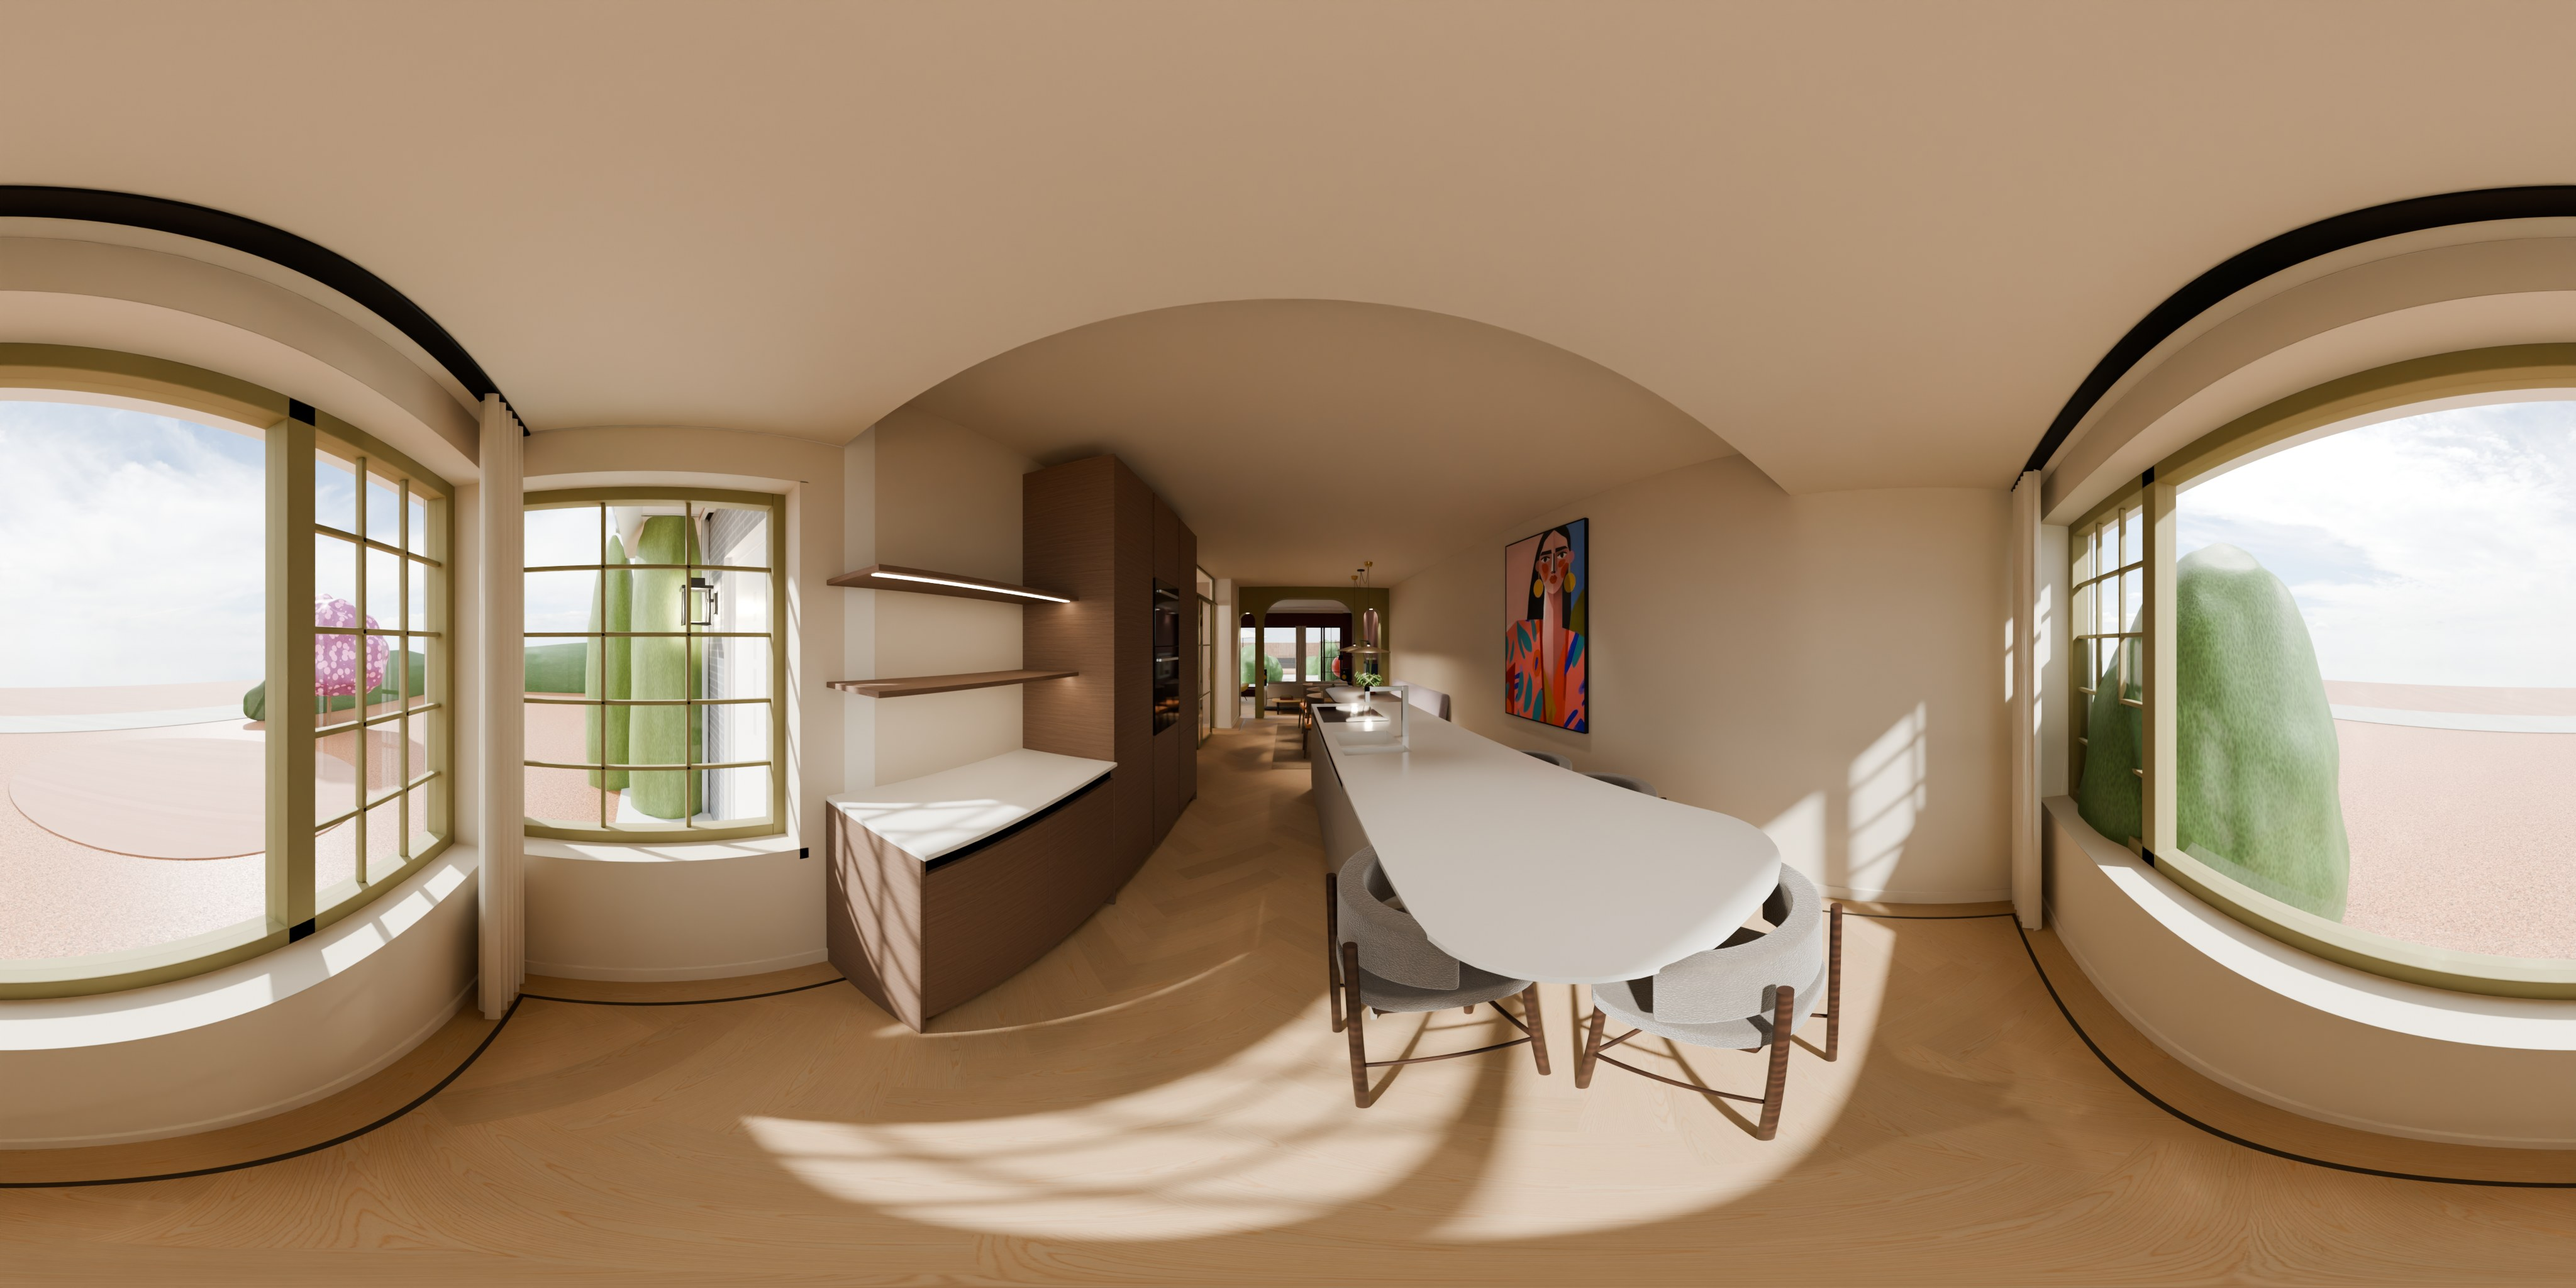
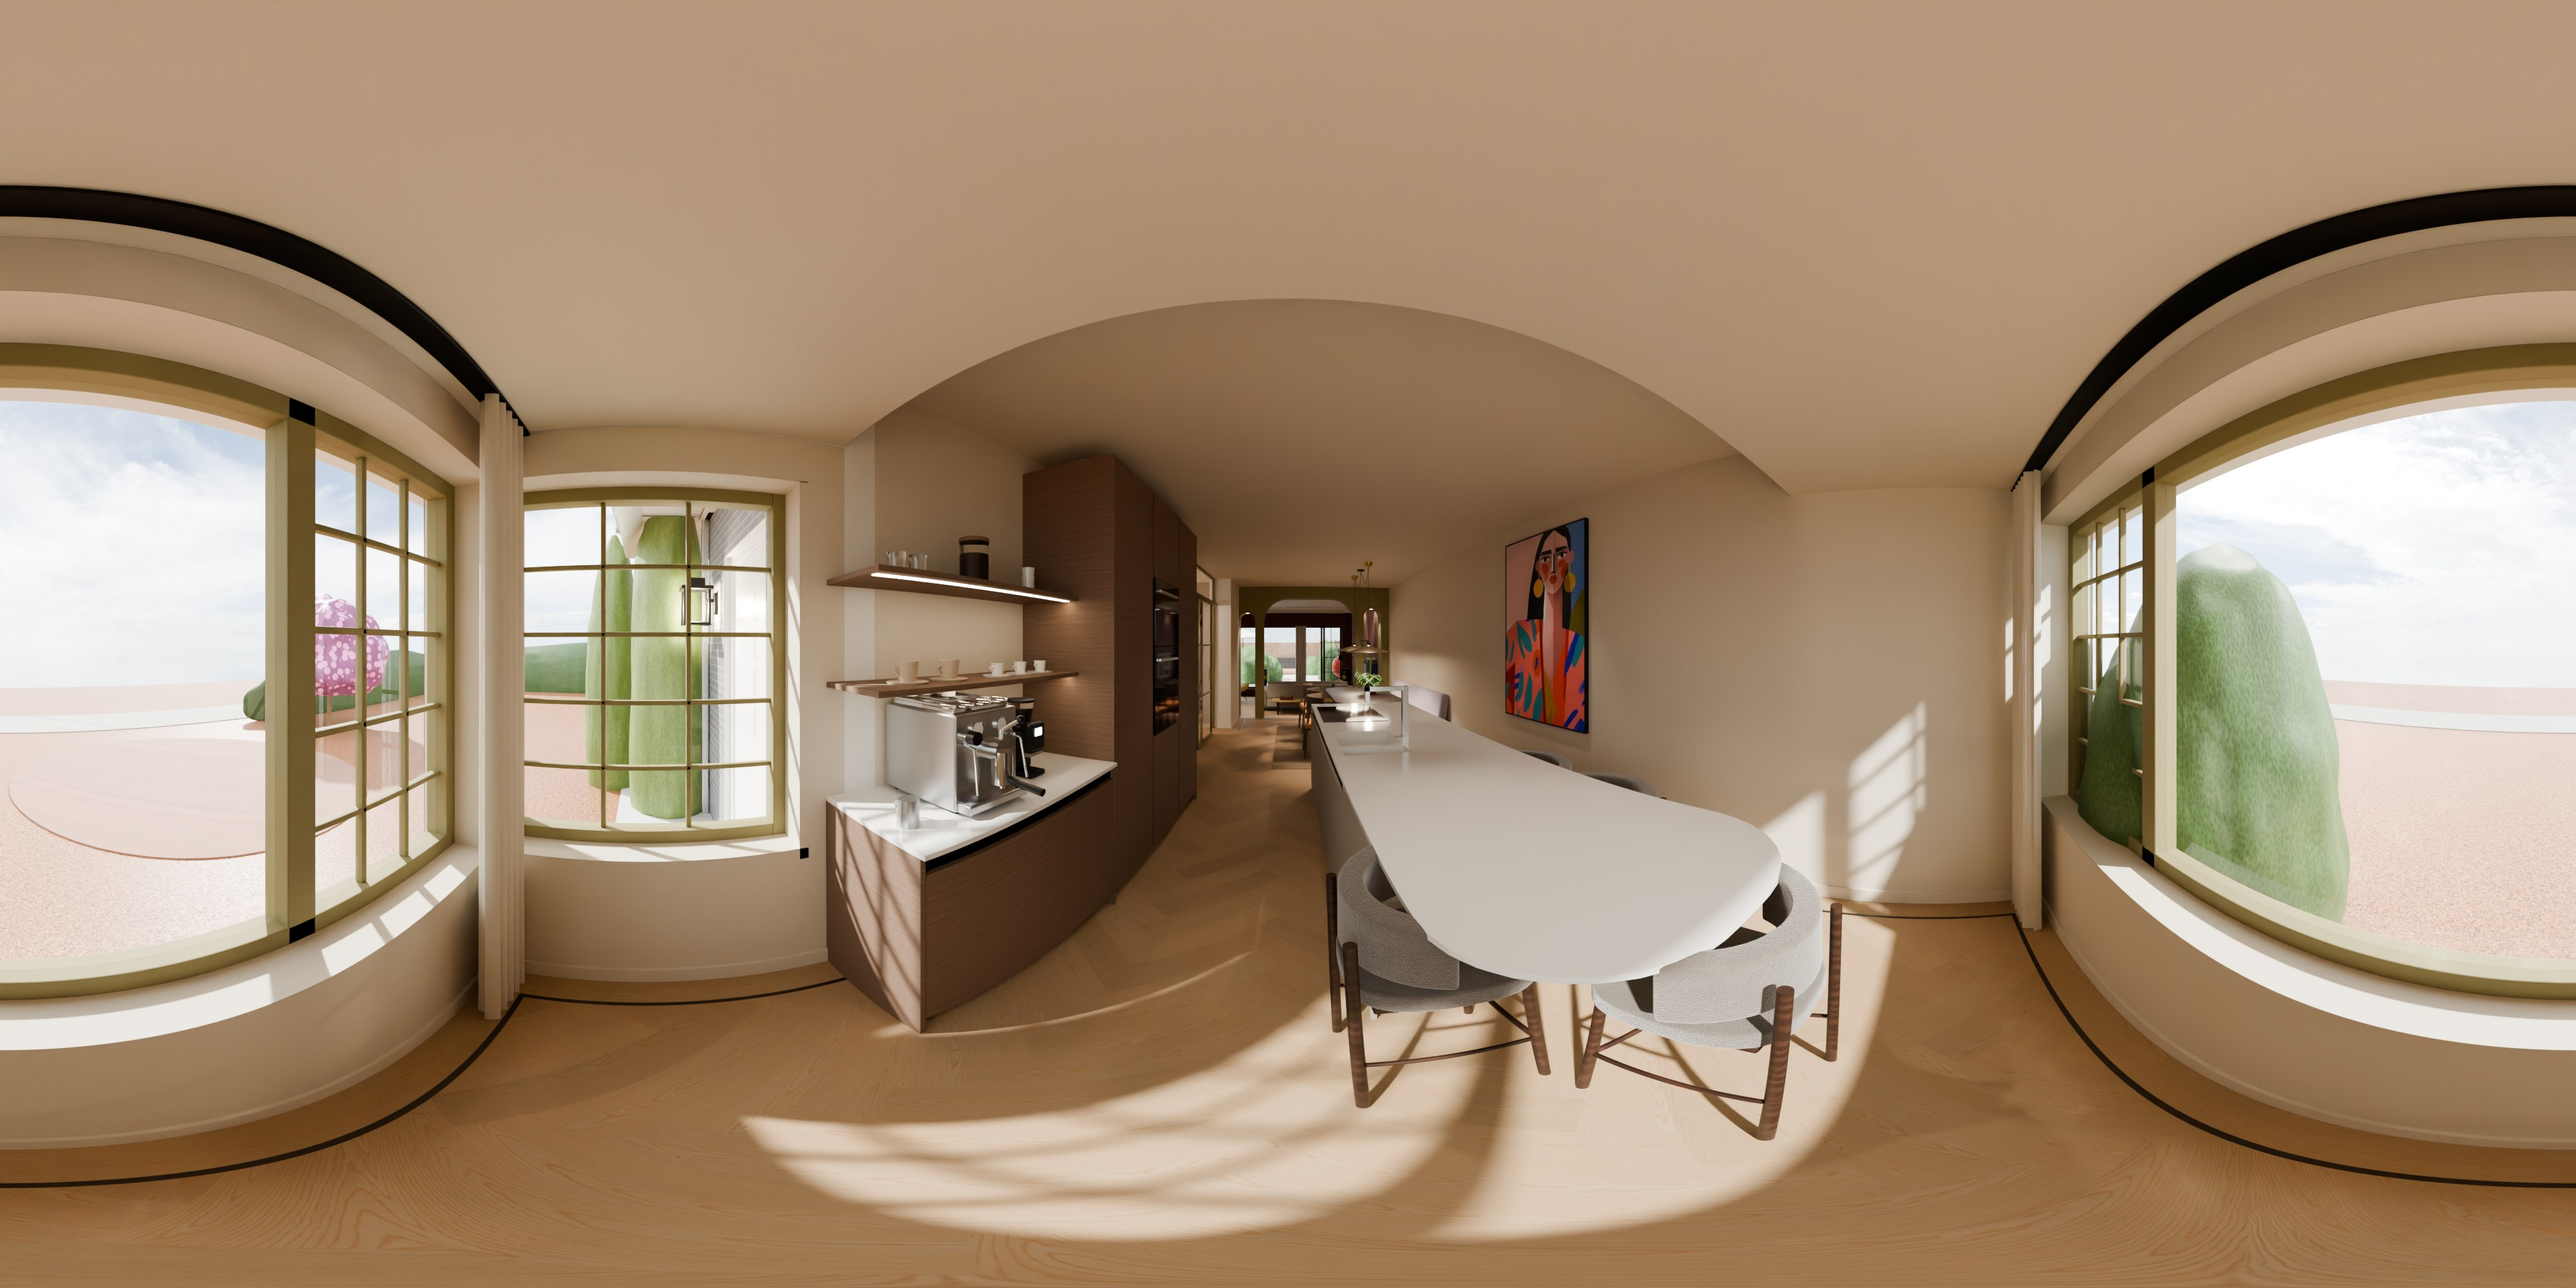
Koffienis (dagpanos) en nieuwe fotorealistische avondbeelden keuken en hal

Changed region(s): [[0.3438, 0.5, 0.4375, 0.6562], [0.375, 0.4062, 0.4062, 0.4688]]

diff --git a/uitleg.html b/uitleg.html
@@ -147,7 +147,7 @@
     </div>
     <div>
       <h3>Keuken: walnoot en zand</h3>
-      <p>De walnoten kastenwand en het lichte eiland staan vast. Wanden en plafond zijn Frosted Sand. Monumental Moss komt hier alleen terug in de kozijnen van de erker en in de deur naar de hal, zodat de keuken rustig blijft. Aan het eiland staan vier barkrukken met een ronde, gestoffeerde zitting en kuipleuning in greige stof op slanke walnoten poten: twee aan de wandkant, één aan de ronde kop en één aan de kookkant onder de overstek.</p>
+      <p>De walnoten kastenwand en het lichte eiland staan vast. Wanden en plafond zijn Frosted Sand. Monumental Moss komt hier alleen terug in de kozijnen van de erker en in de deur naar de hal, zodat de keuken rustig blijft. Aan het eiland staan vier barkrukken met een ronde, gestoffeerde zitting en kuipleuning in greige stof op slanke walnoten poten: twee aan de wandkant, één aan de ronde kop en één aan de kookkant onder de overstek. In de koffienis aan de erkerkant van de kastenwand staan een Profitec Pro espressomachine (RVS, E61) en een zwarte Eureka Mignon bonenmaler, met espresso- en cappuccinokopjes op de verlichte planken erboven.</p>
       <p>Die deur is een stalen glasdeur in dezelfde stijl als de pui van de speelkamer, met de roedes op dezelfde hoogte. Zo lopen de twee in één lijn door en valt er licht van de keuken in de hal.</p>
       <div class="tags"><span class="tag"><i style="background:var(--sand)"></i>Frosted Sand</span><span class="tag"><i style="background:var(--moss)"></i>kozijnen Monumental Moss</span></div>
     </div>
@@ -315,6 +315,7 @@
       <tr><td>Speelkamer</td><td>Walnoten kastenwand met bureaunis</td><td>Dicht tot de vloer; bureau 73 cm, twee slanke stoelen</td></tr>
       <tr><td>Speelkamer</td><td>HKliving Lazy, corduroy</td><td>Leesfauteuil in de raamhoek, met leeslamp</td></tr>
       <tr><td>Keuken</td><td>4 barkrukken, greige stof, walnoten poten</td><td>Ronde zitting met kuipleuning; 2 aan de wandkant, 1 aan de kop, 1 aan de kookkant</td></tr>
+      <tr><td>Keuken</td><td>Koffienis: Profitec Pro + Eureka Mignon</td><td>RVS E61-machine en zwarte molen op het werkblad, kopjes op de planken</td></tr>
       <tr><td>Keuken / hal</td><td>Stalen glasdeur, Monumental Moss</td><td>Zelfde profiel en roedes (0,75 en 1,52 m) als de pui van de speelkamer</td></tr>
       <tr><td>Slaapkamer</td><td>Bed 160 × 200 met gestoffeerd hoofdbord</td><td>Hoofdbord in mosgroen velours over de volle breedte; linnen beddengoed, roestkleurige plaid</td></tr>
       <tr><td>Slaapkamer</td><td>Walnoten kast in de nis</td><td>Vloer tot plafond, messing grepen; zelfde walnoot als keuken en speelkamer</td></tr>

diff --git a/index.html b/index.html
@@ -163,7 +163,7 @@ const LINKS = {
 };
 const VOLGORDE = ['woonkamer', 'vleugel', 'eetzone', 'keuken', 'erker', 'eiland', 'speelkamer', 'hal', 'slaapkamer', 'slaapkamerbed', 'badkamer',
                   'overloop', 'gang', 'portaal', 'ouders', 'oudersraam', 'kinderkamer', 'kinderbedstede', 'meisjeskamer', 'meisjesleeshoek', 'inloopkast'];
-const HEEFT_FOTO = new Set(['badkamer-avond', 'badkamer', 'eetzone', 'eiland', 'erker', 'gang-avond', 'gang', 'inloopkast-avond', 'inloopkast', 'keuken', 'meisjeskamer-avond', 'meisjeskamer', 'meisjesleeshoek-avond', 'meisjesleeshoek', 'ouders-avond', 'ouders', 'oudersraam-avond', 'oudersraam', 'overloop-avond', 'overloop', 'portaal-avond', 'portaal', 'slaapkamer-avond', 'slaapkamer', 'slaapkamerbed-avond', 'slaapkamerbed', 'speelkamer-avond', 'speelkamer', 'vleugel-avond', 'vleugel', 'woonkamer-avond', 'woonkamer']);   // AI-versies die er zijn
+const HEEFT_FOTO = new Set(['badkamer-avond', 'badkamer', 'eetzone-avond', 'eetzone', 'eiland-avond', 'eiland', 'erker-avond', 'erker', 'gang-avond', 'gang', 'hal-avond', 'hal', 'inloopkast-avond', 'inloopkast', 'keuken-avond', 'keuken', 'meisjeskamer-avond', 'meisjeskamer', 'meisjesleeshoek-avond', 'meisjesleeshoek', 'ouders-avond', 'ouders', 'oudersraam-avond', 'oudersraam', 'overloop-avond', 'overloop', 'portaal-avond', 'portaal', 'slaapkamer-avond', 'slaapkamer', 'slaapkamerbed-avond', 'slaapkamerbed', 'speelkamer-avond', 'speelkamer', 'vleugel-avond', 'vleugel', 'woonkamer-avond', 'woonkamer']);   // AI-versies die er zijn
 const HEEFT_PANO = new Set(['badkamer-avond', 'badkamer', 'eetzone-avond', 'eetzone', 'eiland-avond', 'eiland', 'erker-avond', 'erker', 'gang-avond', 'gang', 'hal-avond', 'hal', 'inloopkast-avond', 'inloopkast', 'keuken-avond', 'keuken', 'kinderbedstede-avond', 'kinderbedstede', 'kinderkamer-avond', 'kinderkamer', 'meisjeskamer-avond', 'meisjeskamer', 'meisjesleeshoek-avond', 'meisjesleeshoek', 'ouders-avond', 'ouders', 'oudersraam-avond', 'oudersraam', 'overloop-avond', 'overloop', 'portaal-avond', 'portaal', 'slaapkamer-avond', 'slaapkamer', 'slaapkamerbed-avond', 'slaapkamerbed', 'speelkamer-avond', 'speelkamer', 'vleugel-avond', 'vleugel', 'woonkamer-avond', 'woonkamer']);   // 3D-renders die er zijn (publiceer_site.sh); standplaatsen zonder render vallen weg
 for (const id of Object.keys(SPOTS)) if (!HEEFT_PANO.has(id)) { delete SPOTS[id]; delete LINKS[id]; }
 VOLGORDE.splice(0, VOLGORDE.length, ...VOLGORDE.filter(id => SPOTS[id]));
